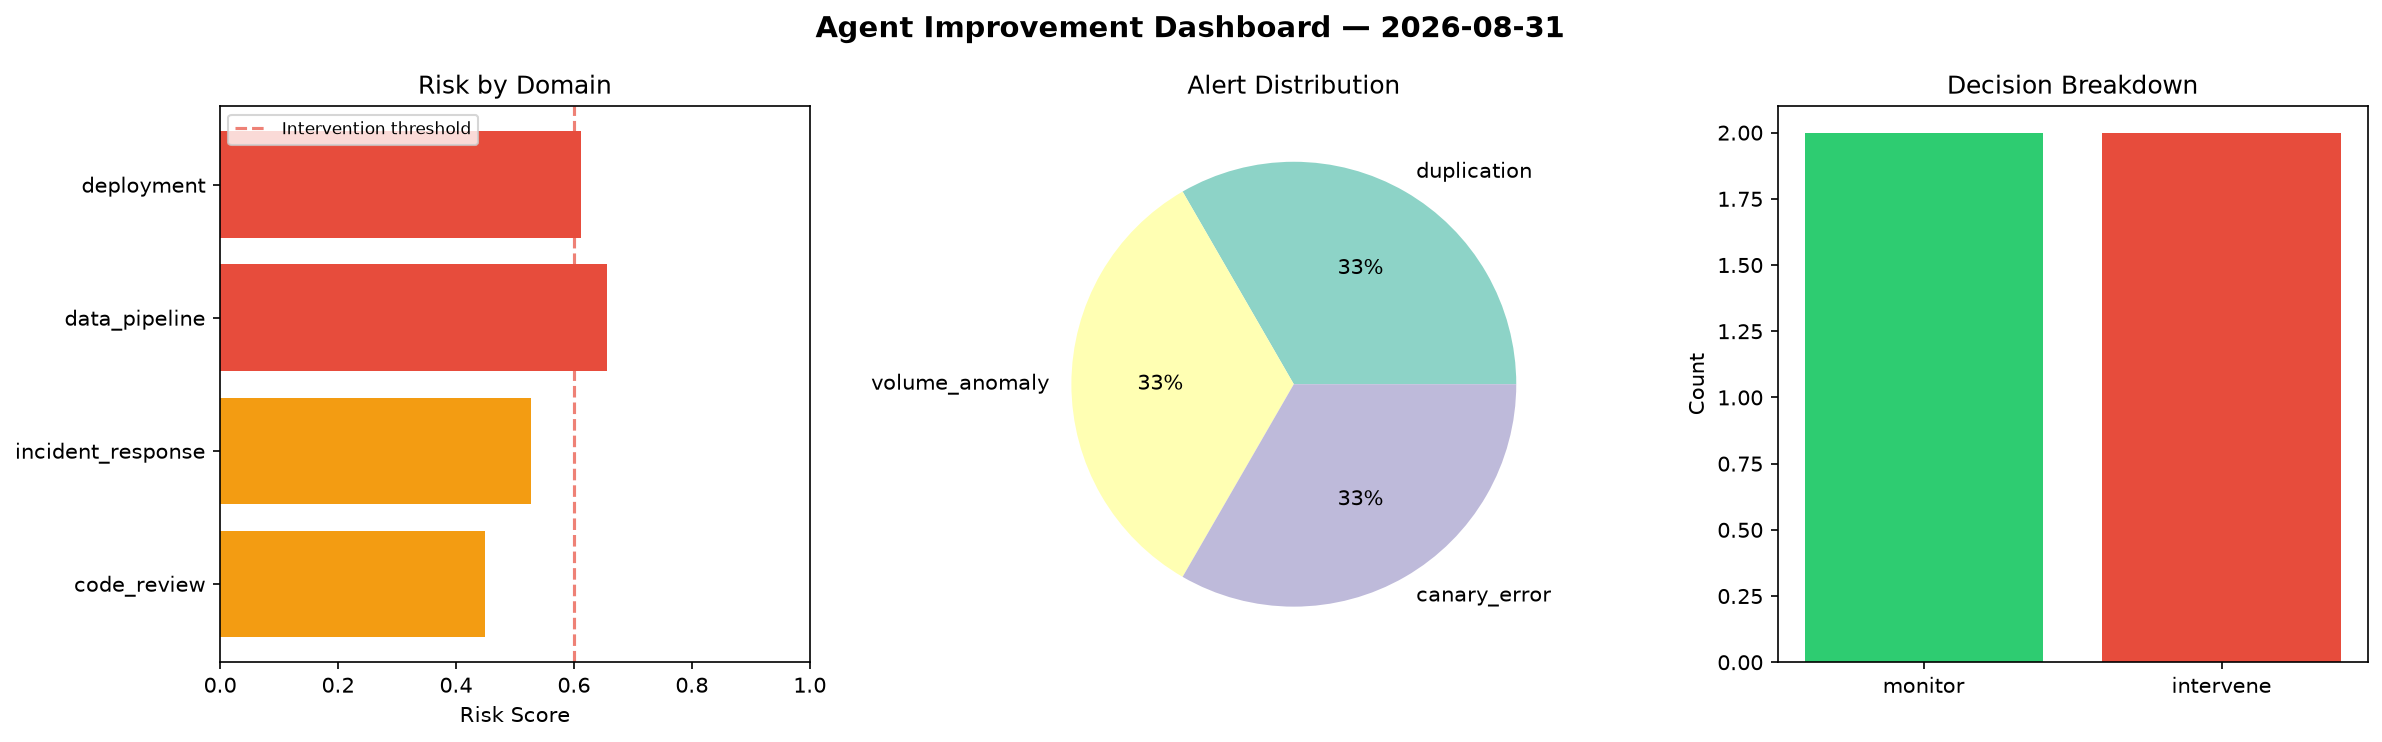
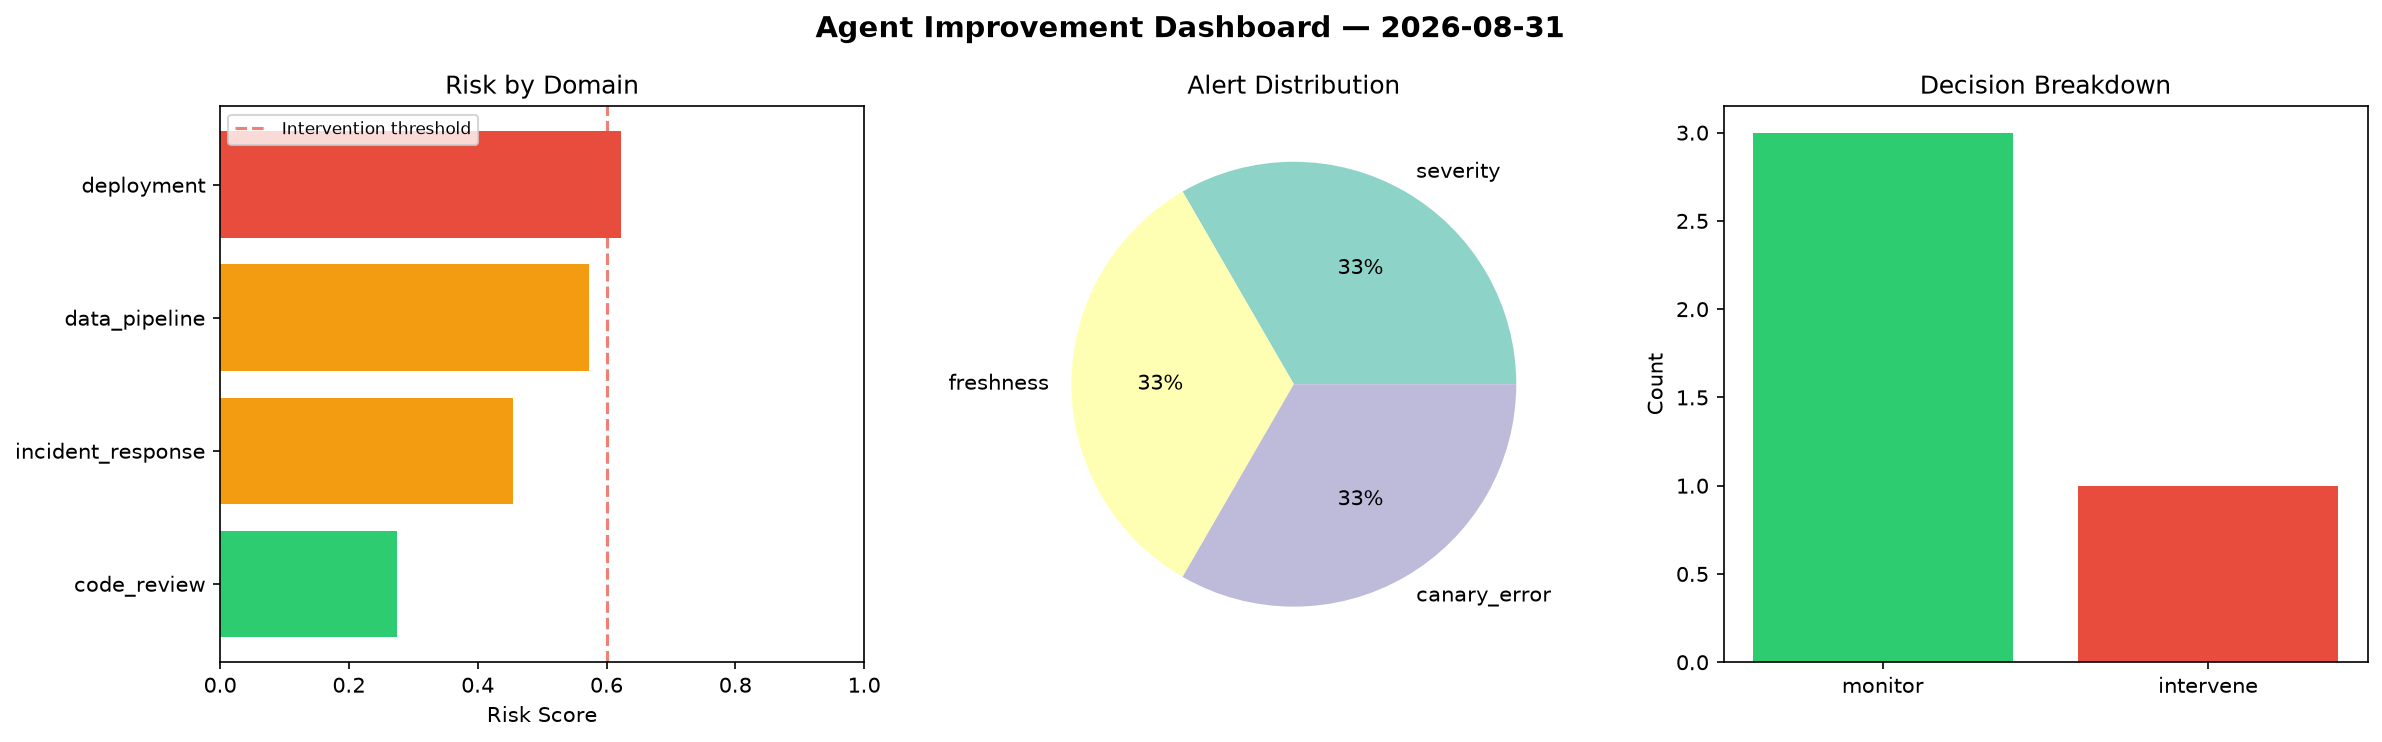
agent-improvement: daily cycle 2026-08-31T16:09

diff --git a/logs/2026-08-31.md b/logs/2026-08-31.md
@@ -1,6 +1,6 @@
 # Agent Improvement Report — 2026-08-31
 
-**Cycle ID:** `188b6d58` | **Avg Risk:** 0.5616 | **Interventions:** 2/4
+**Cycle ID:** `5236c383` | **Avg Risk:** 0.4814 | **Interventions:** 1/4
 
 ![Dashboard](2026-08-31_dashboard.png)
 
@@ -10,18 +10,18 @@
 
 | Domain | Risk Score | Decision | Alerts |
 |--------|-----------|----------|--------|
-| code_review | 0.4498 | monitor | duplication |
-| incident_response | 0.5279 | monitor | none |
-| data_pipeline | 0.6567 | intervene | volume_anomaly |
-| deployment | 0.612 | intervene | canary_error |
+| code_review | 0.2745 | monitor | none |
+| incident_response | 0.4555 | monitor | severity |
+| data_pipeline | 0.5729 | monitor | freshness |
+| deployment | 0.6225 | intervene | canary_error |
 
 ## Delta vs Yesterday
 
 | Domain | Today | Yesterday | Change |
 |--------|-------|-----------|--------|
-| code_review | 0.4498 | 0.7678 | 📉 -41.4% |
-| incident_response | 0.5279 | 0.5829 | 📉 -9.4% |
-| data_pipeline | 0.6567 | 0.3683 | 📈 78.3% |
-| deployment | 0.612 | 0.4072 | 📈 50.3% |
+| code_review | 0.2745 | 0.7678 | 📉 -64.2% |
+| incident_response | 0.4555 | 0.5829 | 📉 -21.9% |
+| data_pipeline | 0.5729 | 0.3683 | 📈 55.6% |
+| deployment | 0.6225 | 0.4072 | 📈 52.9% |
 
 **Refinement:** `{'adjustment': 'tighten_thresholds', 'trend': 'degrading', 'window': 4}`
